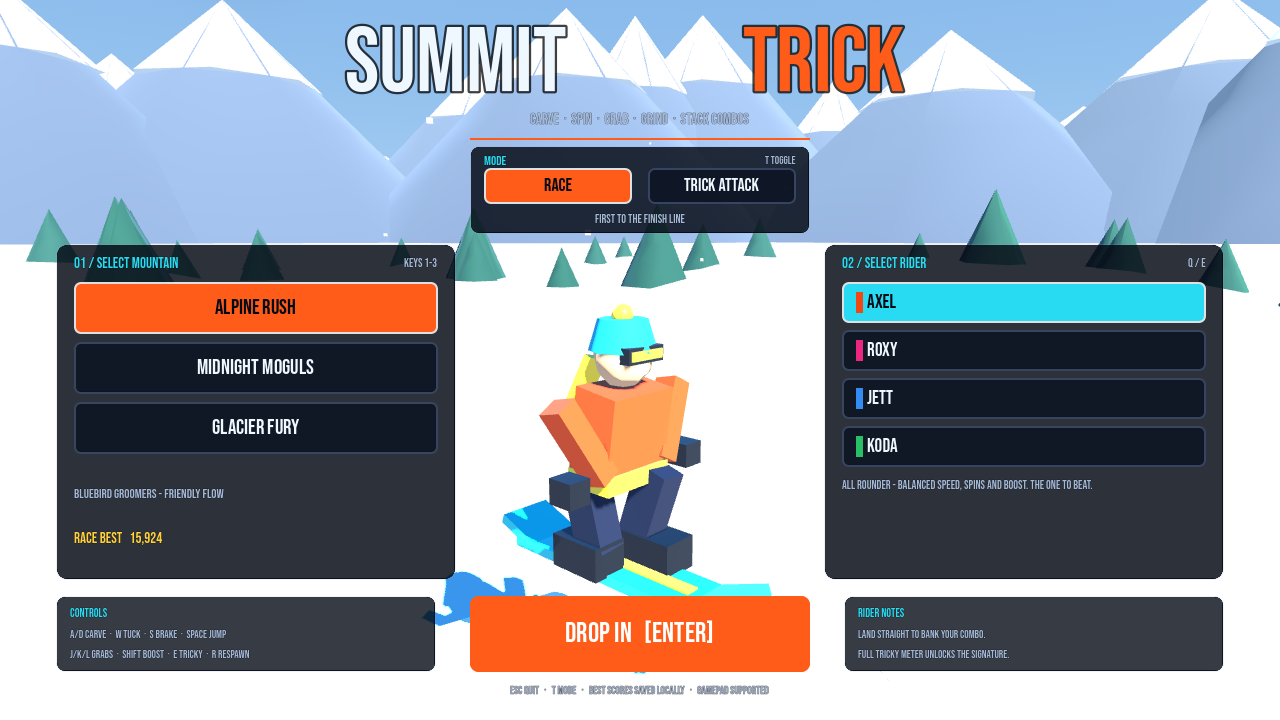
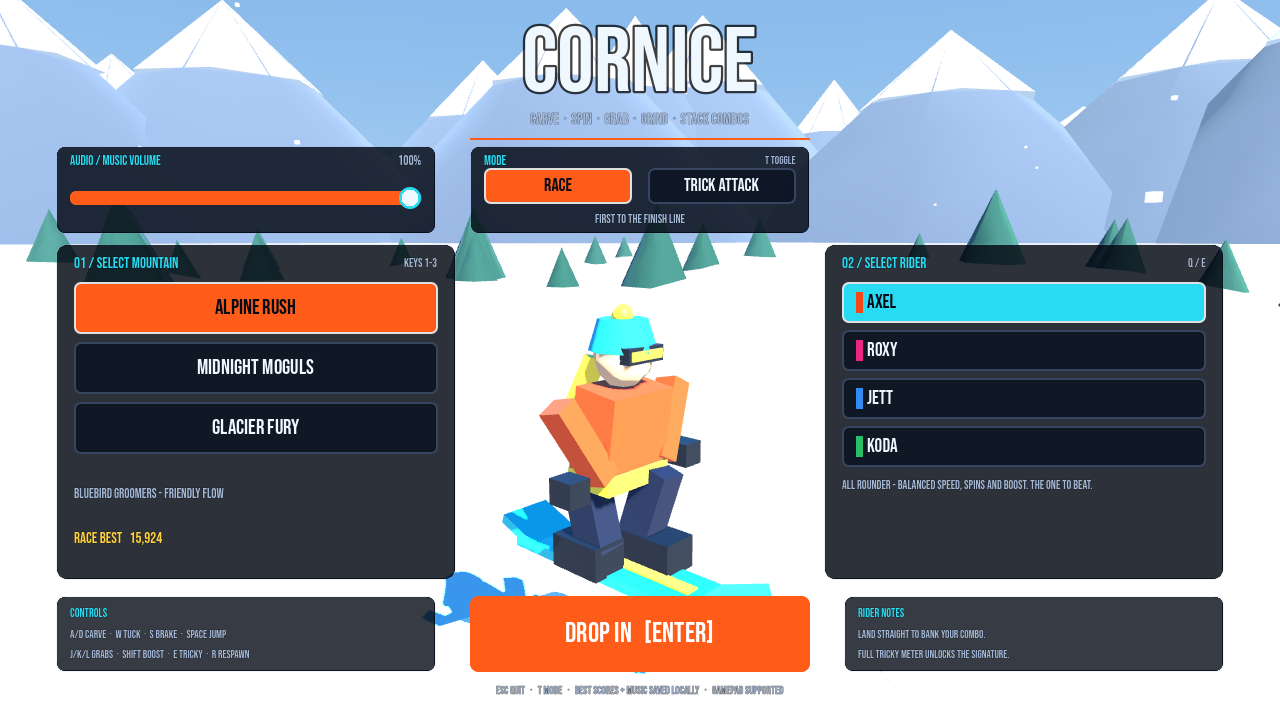
Rename the game to Cornice and drop SSX wording
- Title screen, window title, project name and README now say Cornice
- Save file moves to user://cornice.cfg, reading the old summit_trick.cfg once
  if no new save exists, so existing bests carry over
- Use metallic_specular for the terrain material, which removes a Godot 3
  remap warning at startup
- Refresh the title screen screenshot

Claude-Session: https://claude.ai/code/session_01KLgVhjvdAufin9yht4ZGuS

diff --git a/tools/gen_audio.py b/tools/gen_audio.py
@@ -1,5 +1,5 @@
 #!/usr/bin/env python3
-"""Synthesize the Summit Trick SFX and fallback music into audio/*.wav.
+"""Synthesize the Cornice SFX and fallback music into audio/*.wav.
 
 The shipped menu, race and Trick Attack tracks are CC0 music from OpenGameArt;
 see THIRD_PARTY_AUDIO.md. music.wav is the fallback if those files are missing.

diff --git a/README.md b/README.md
@@ -1,6 +1,7 @@
-# SUMMIT TRICK
+# CORNICE
 
-A low-poly, SSX Tricky-flavoured snowboard game built entirely in **Godot 4**.
+An original low-poly arcade snowboard game built entirely in **Godot 4**: huge air,
+long trick chains and real speed.
 Three procedurally generated mountains, five rival riders, two modes, big
 kickers, grindable rails, spins, flips, grabs, combo banking and a Tricky meter
 with signature tricks.
@@ -59,7 +60,7 @@ to the menu.
 Menu: mouse, `T` to switch between Race and Trick Attack, `1`–`3` for
 mountains, `Q`/`E` for riders, `Enter` to drop in. The **AUDIO / MUSIC
 VOLUME** slider adjusts the soundtrack in real time and is saved to
-`user://summit_trick.cfg` with your other settings.
+`user://cornice.cfg` with your other settings.
 
 ## How the game works
 
